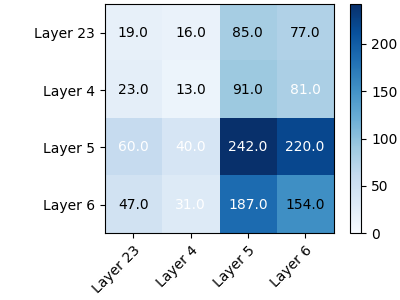
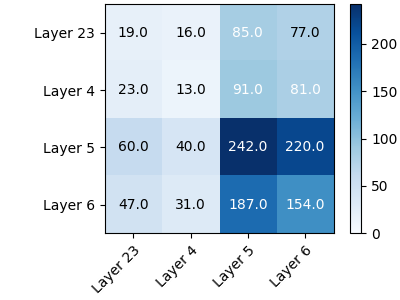
fix normalised n sig links

diff --git a/plot_results.py b/plot_results.py
@@ -6,7 +6,7 @@ import numpy as np
 import sys
 import glob
 
-mouse = 'mouse2probe8'
+mouse = 'mouse1probe3'
 n_layers = 4
 
 sig_links_mat = np.zeros((n_layers,n_layers))
@@ -59,7 +59,7 @@ def plot_matrix_colour_map(mat, fname):
     #add text annotations
     for i in range(n_layers):
         for j in range(n_layers):
-            if mat[i,j] < 10:
+            if mat[i,j] < 0.33 * vmax:
                 colour = 'black'
             else:
                 colour = 'white'
@@ -72,7 +72,9 @@ def plot_matrix_colour_map(mat, fname):
     plt.savefig(f'results/{mouse}/{fname}.png')
     print(f"saved in results/{mouse}/{fname}.png")
 
-# plot_matrix_colour_map(n_links_mat, 'n_links')
+plot_matrix_colour_map(n_links_mat, 'n_links')
+
+plot_matrix_colour_map(sig_links_mat, 'n_sig_links')
 
 #plot proportion of significant links
 sig_links_mat_normalised  = np.zeros((n_layers, n_layers))
